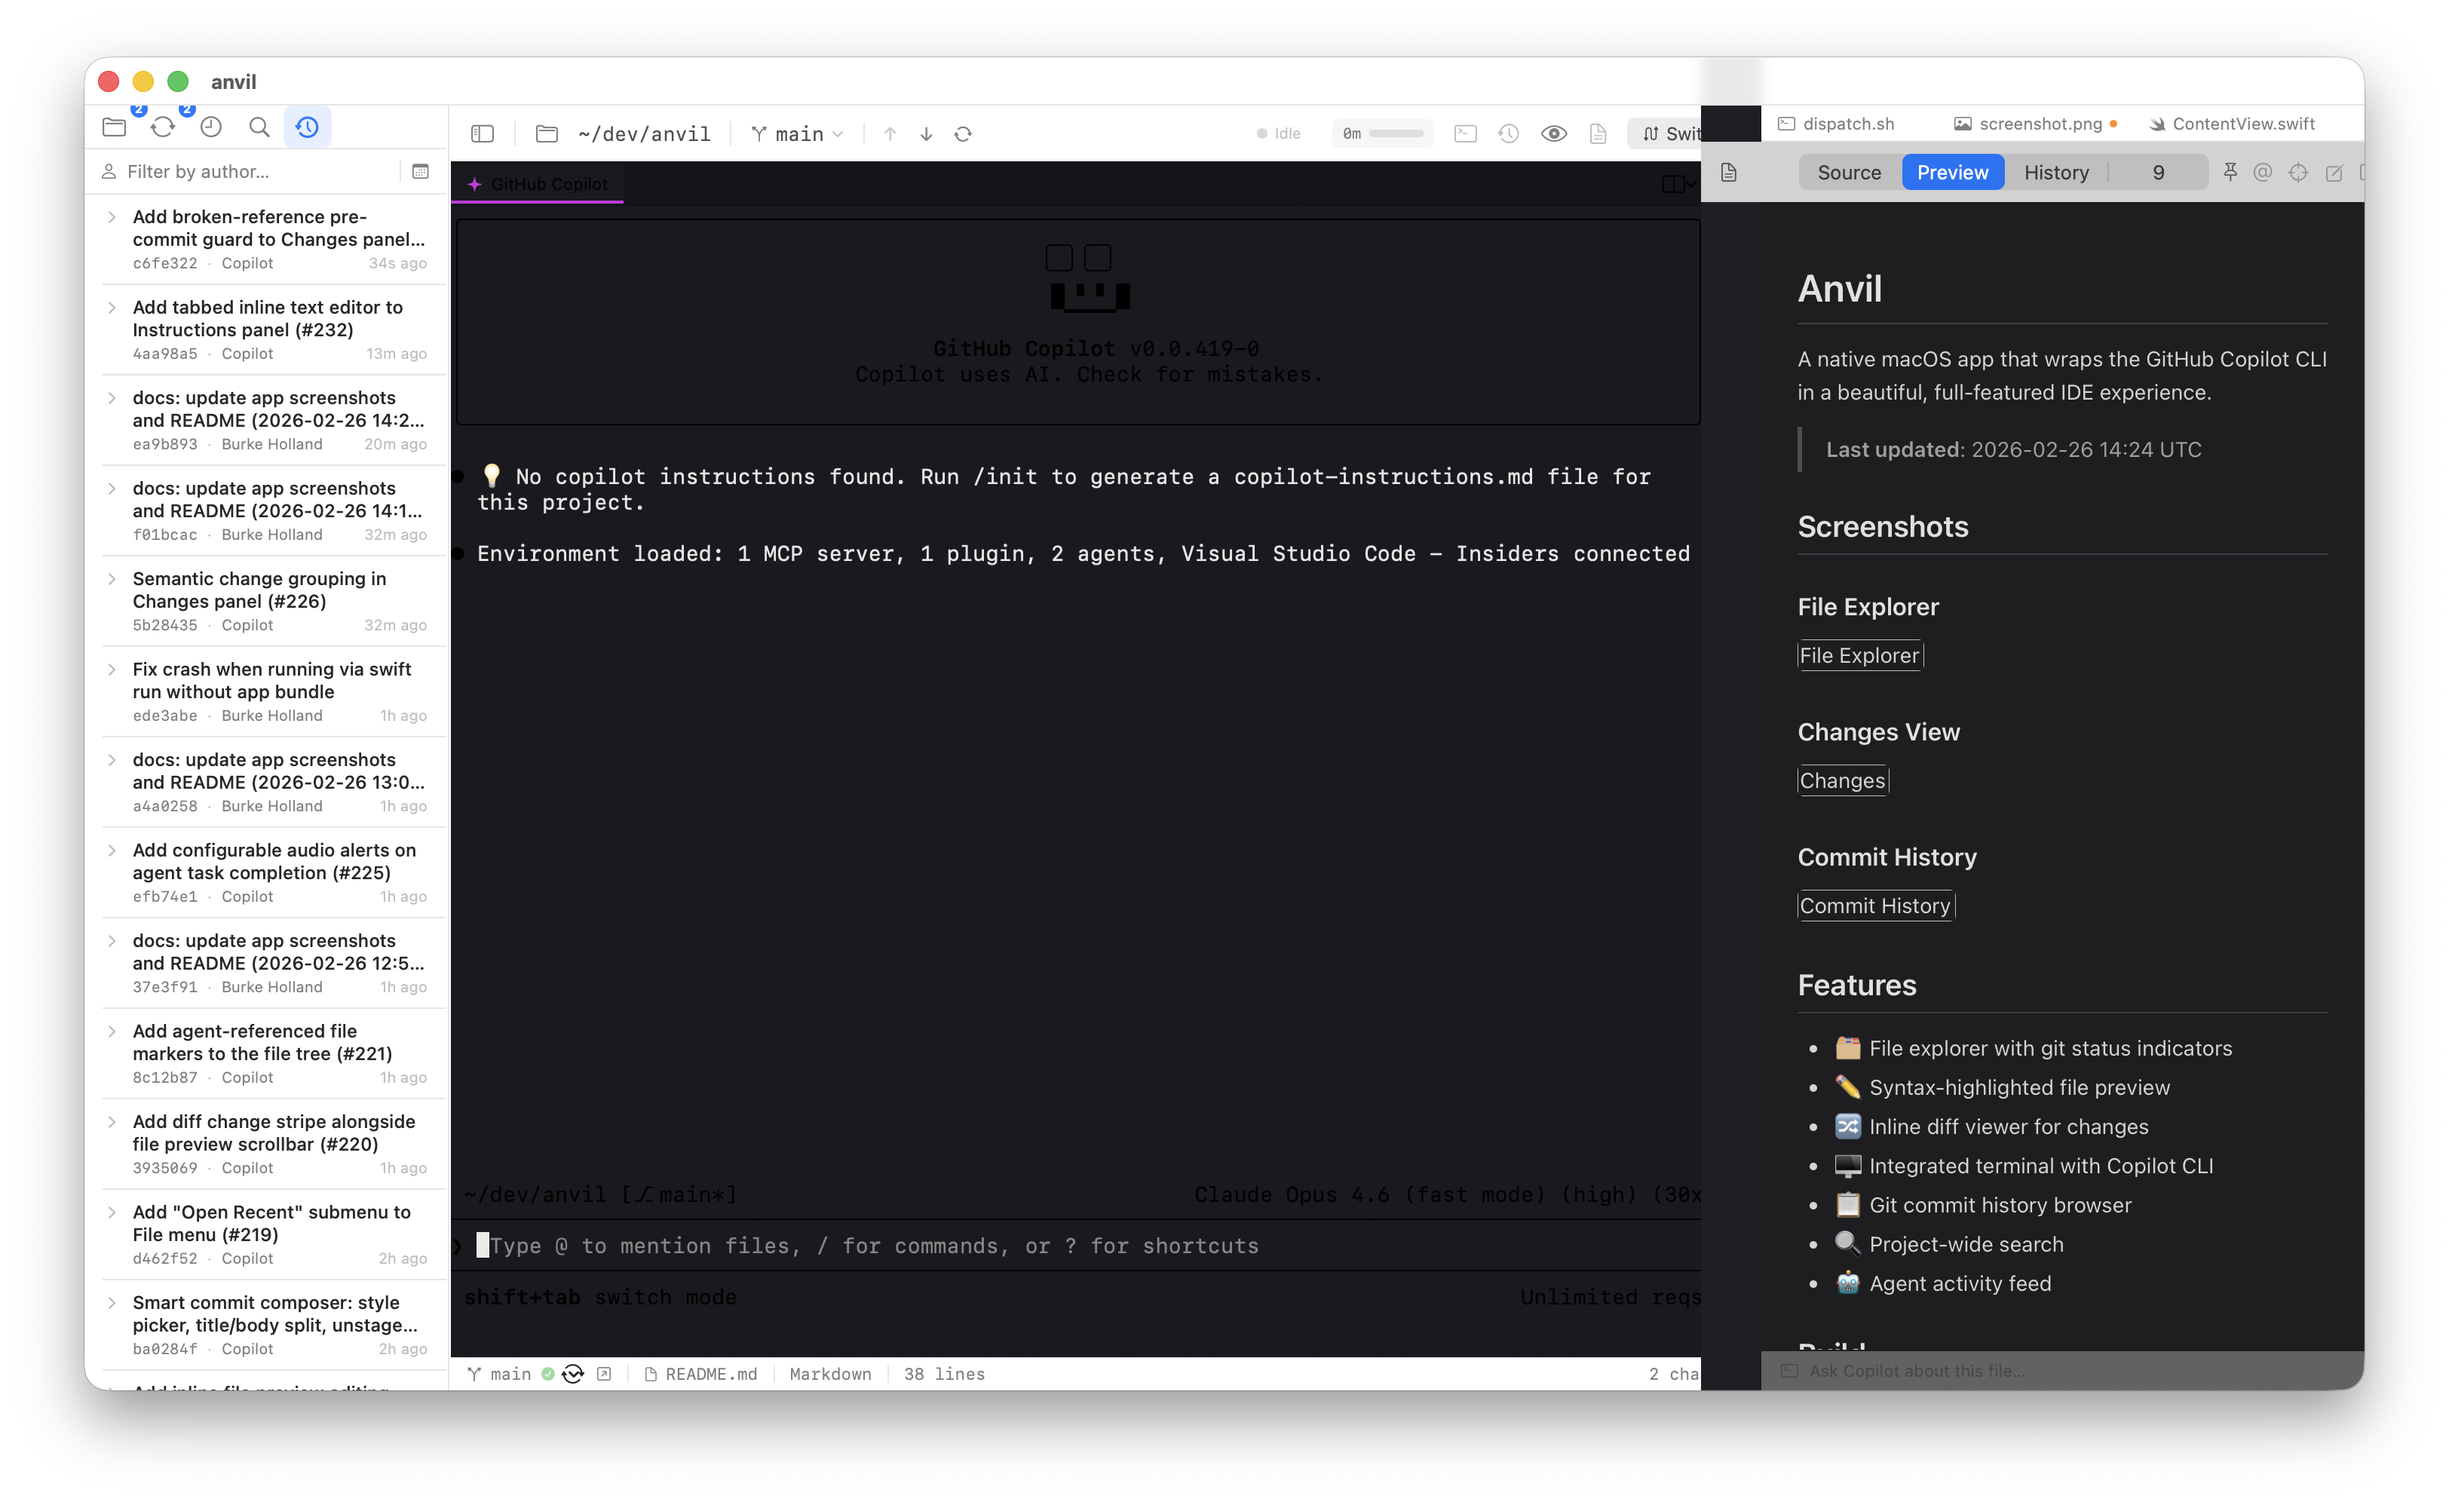
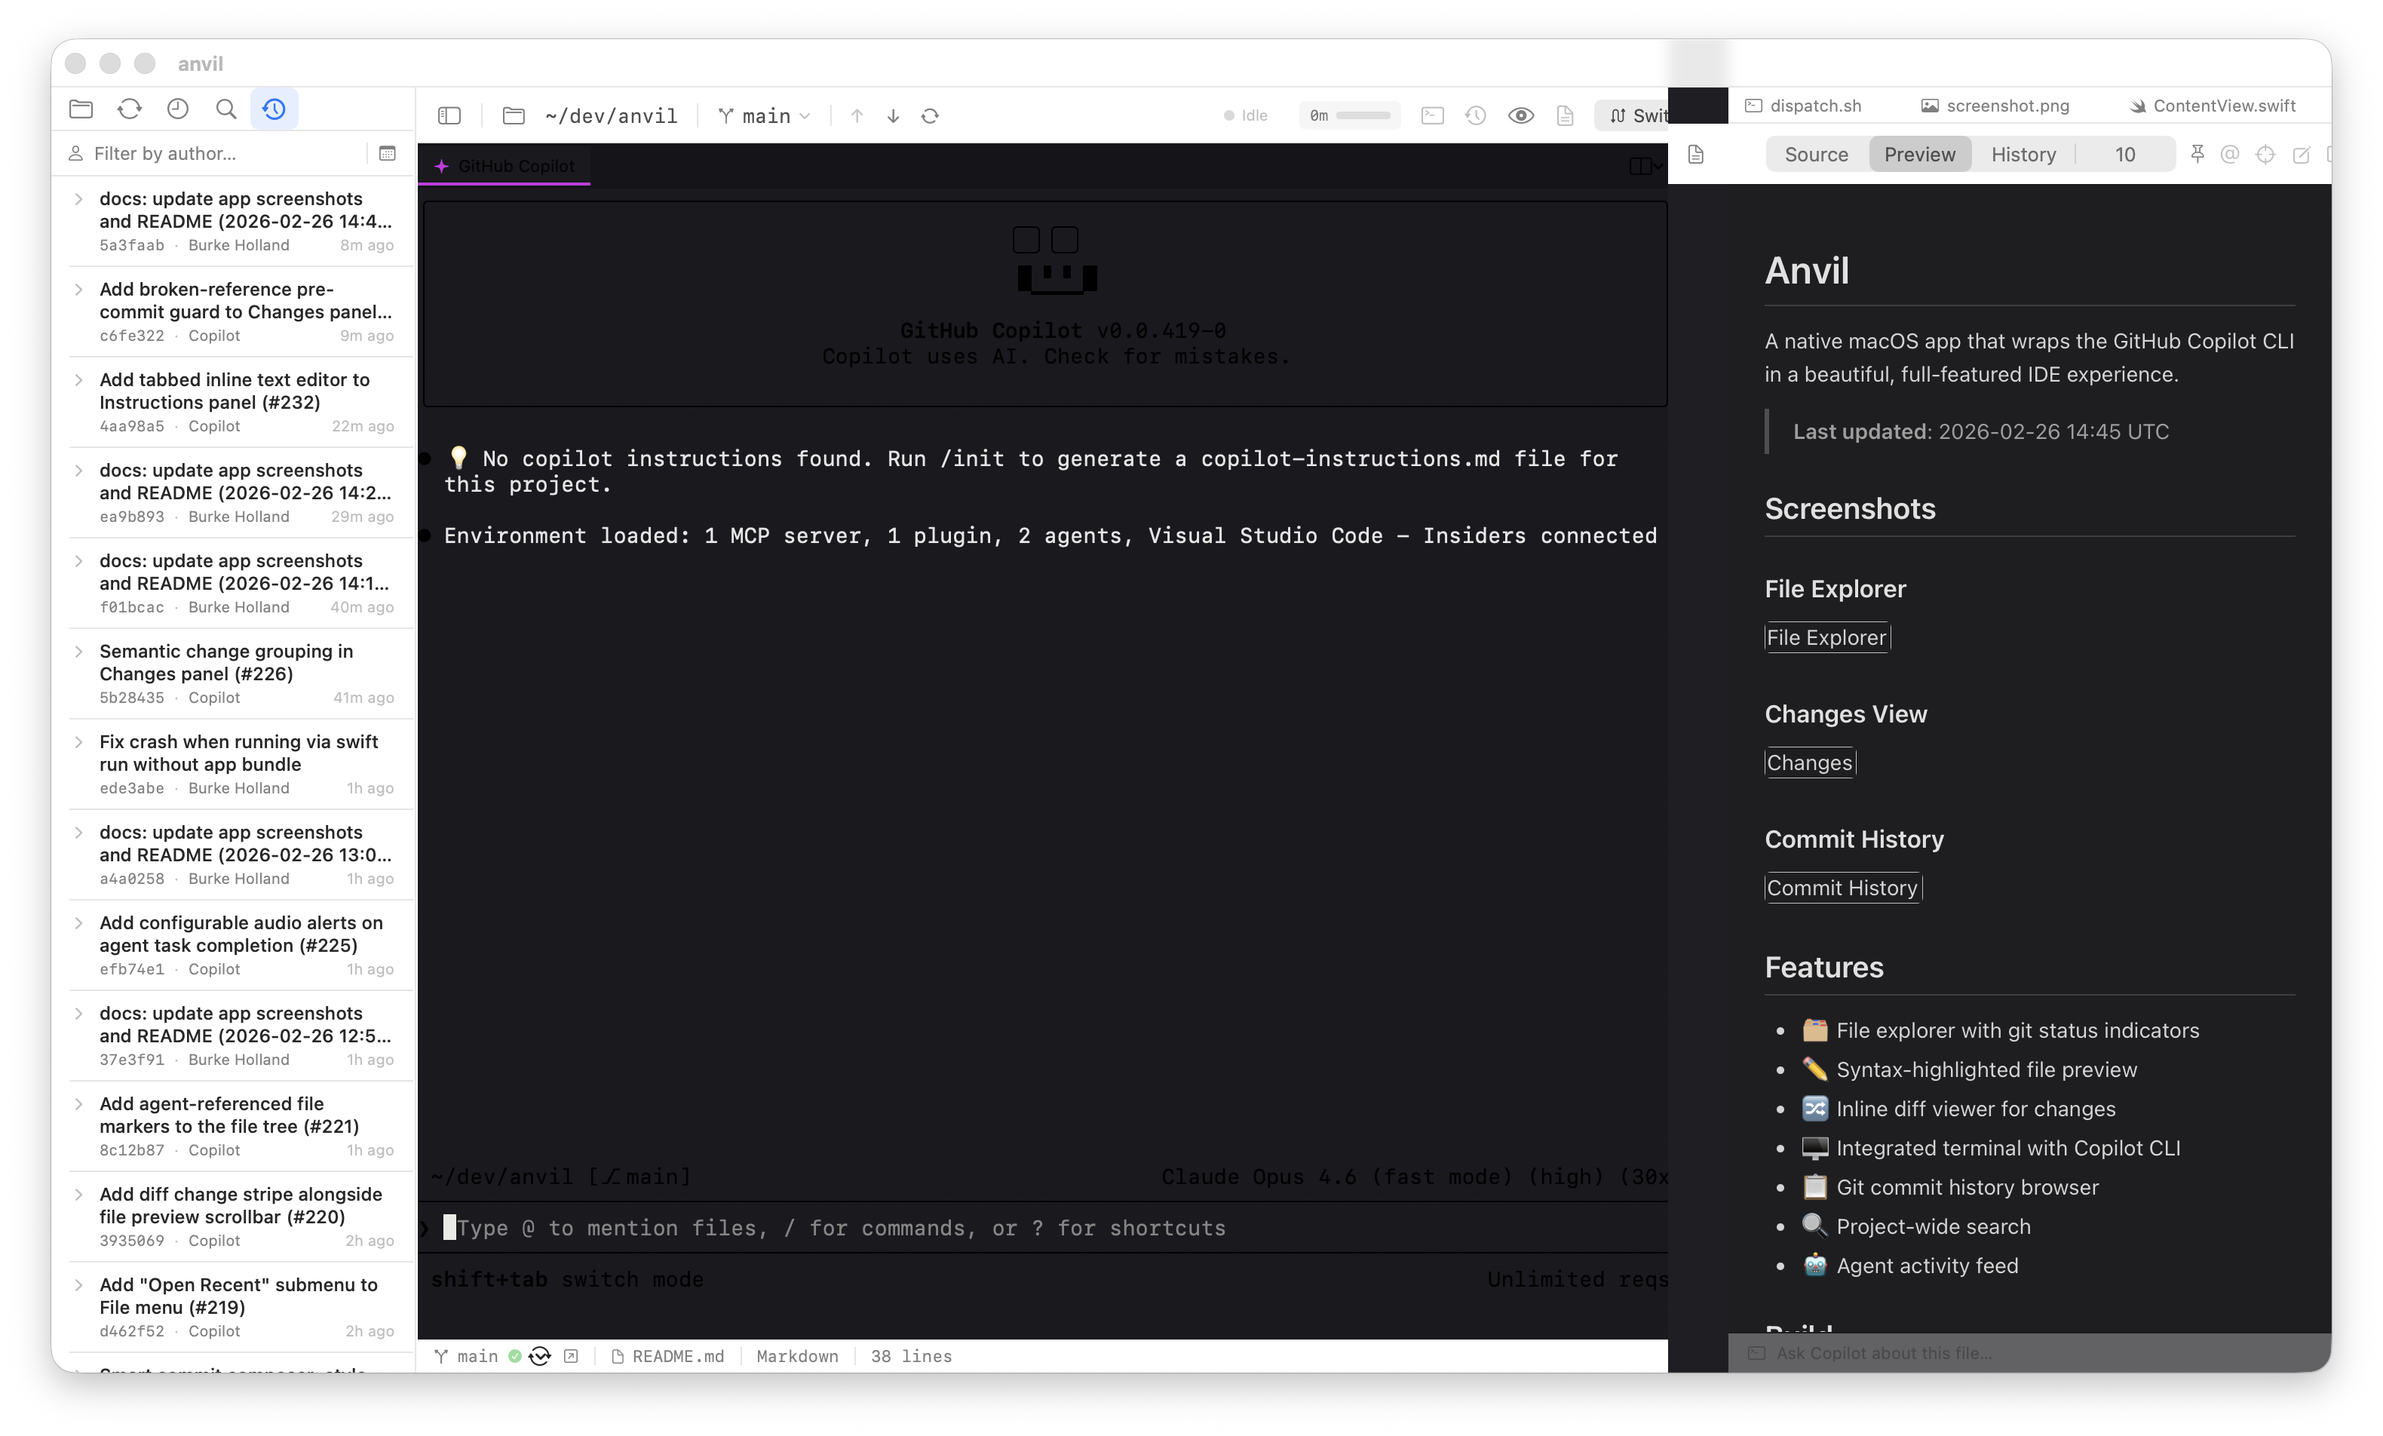
docs: update app screenshots and README (2026-02-26 14:53 UTC)

diff --git a/README.md b/README.md
@@ -2,7 +2,7 @@
 
 A native macOS app that wraps the GitHub Copilot CLI in a beautiful, full-featured IDE experience.
 
-> **Last updated**: 2026-02-26 14:45 UTC
+> **Last updated**: 2026-02-26 14:53 UTC
 
 ## Screenshots
 
